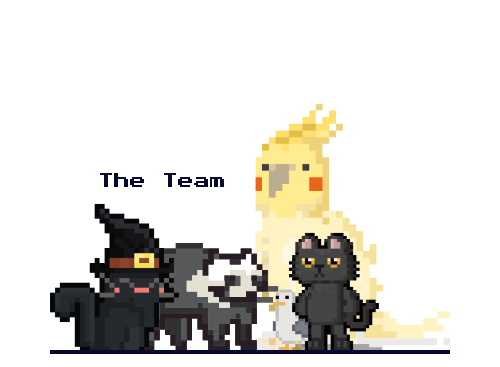
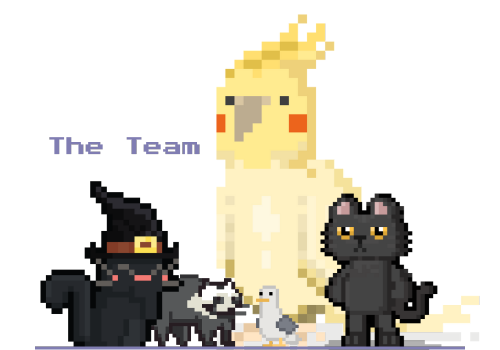
Update app.html and +page.svelte

diff --git a/src/routes/+page.svelte b/src/routes/+page.svelte
@@ -7,12 +7,12 @@
     
 
     .HackathonImage{
-        width: 83%;
         max-width: 100%;
         height: auto;
         align-items: center;
         display: block;
         margin: 0 auto;
+        max-height: 200px;
     }
 
     .Logo{
@@ -103,7 +103,7 @@
         transform-style: preserve-3d;
         border-radius: 1rem;
         box-shadow: 0 0 5px 2px rgba(50, 50, 50, 0.25);
-        background-color: rgba(0, 0, 0, 0);
+        background-color: rgb(241, 240, 240);
         display: flex;
         align-items: center;
         flex-direction: column;
@@ -132,8 +132,11 @@
     }
 
     .tri-image {
-        width: 100px;
-        height: 100px;
+        
+    }
+
+    #registration-image {
+        width: 200px;
     }
 
     @media screen and (max-width: 720px) {
@@ -192,8 +195,11 @@
             <div class="card tri-card">
                 <img class="tri-image" src="/team_black.png" alt="Team" />
                 <h2>Team</h2>
-                <p>2-5 people</p>
+                <p>Upto 5 people</p>
             </div>
+        </div>
+        <div class="logo-container">
+            <img src="/hackadamien-logo.png" alt="">
         </div>
         <div class="theme-container">
             <div class="card tri-card">
@@ -203,9 +209,12 @@
                     Ex. BTD, Tetris, Chrome Dino Game</p>
             </div>
         </div>
+
+    </div>
+    <div class="container">
         <div class="registration-container">
             <div class="card tri-card">
-                <img class="tri-image" src="/register.png" alt="">
+                <img class="tri-image" id="registration-image" src="/register.png" alt="">
                 <h2>Registration Process</h2>
                 <p>Coming soon...</p>
             </div>

diff --git a/src/app.html b/src/app.html
@@ -3,7 +3,7 @@
 	<head>
 		<title>HACK-A-DAMNIEN</title>
 		<meta charset="utf-8" />
-		<link rel="icon" href="%sveltekit.assets%/IEEE_Logo_New_Yellow.png" />
+		<link rel="icon" href="%sveltekit.assets%/IEEE UAlbany Logo Transparent 512 oneColor.png" />
 		<link rel="preconnect" href="https://fonts.googleapis.com">
 		<link rel="preconnect" href="https://fonts.gstatic.com" crossorigin>
 		<link href="https://fonts.googleapis.com/css2?family=Micro+5&family=Press+Start+2P&family=Roboto:wght@300;400&display=swap" rel="stylesheet">
@@ -12,8 +12,9 @@
 				padding: 0;
 				margin: 0;
 				/*background: #111111;*/
-				color: #9c1515;
-				background-color:#e9ebf2;
+				color: #b97ead;
+				background-image: url('/website-background.png');
+				background-color:#cbd0e1;
 				font-family: "Press Start 2P", system-ui;
 				font-weight: 400;
 				font-style: normal;
